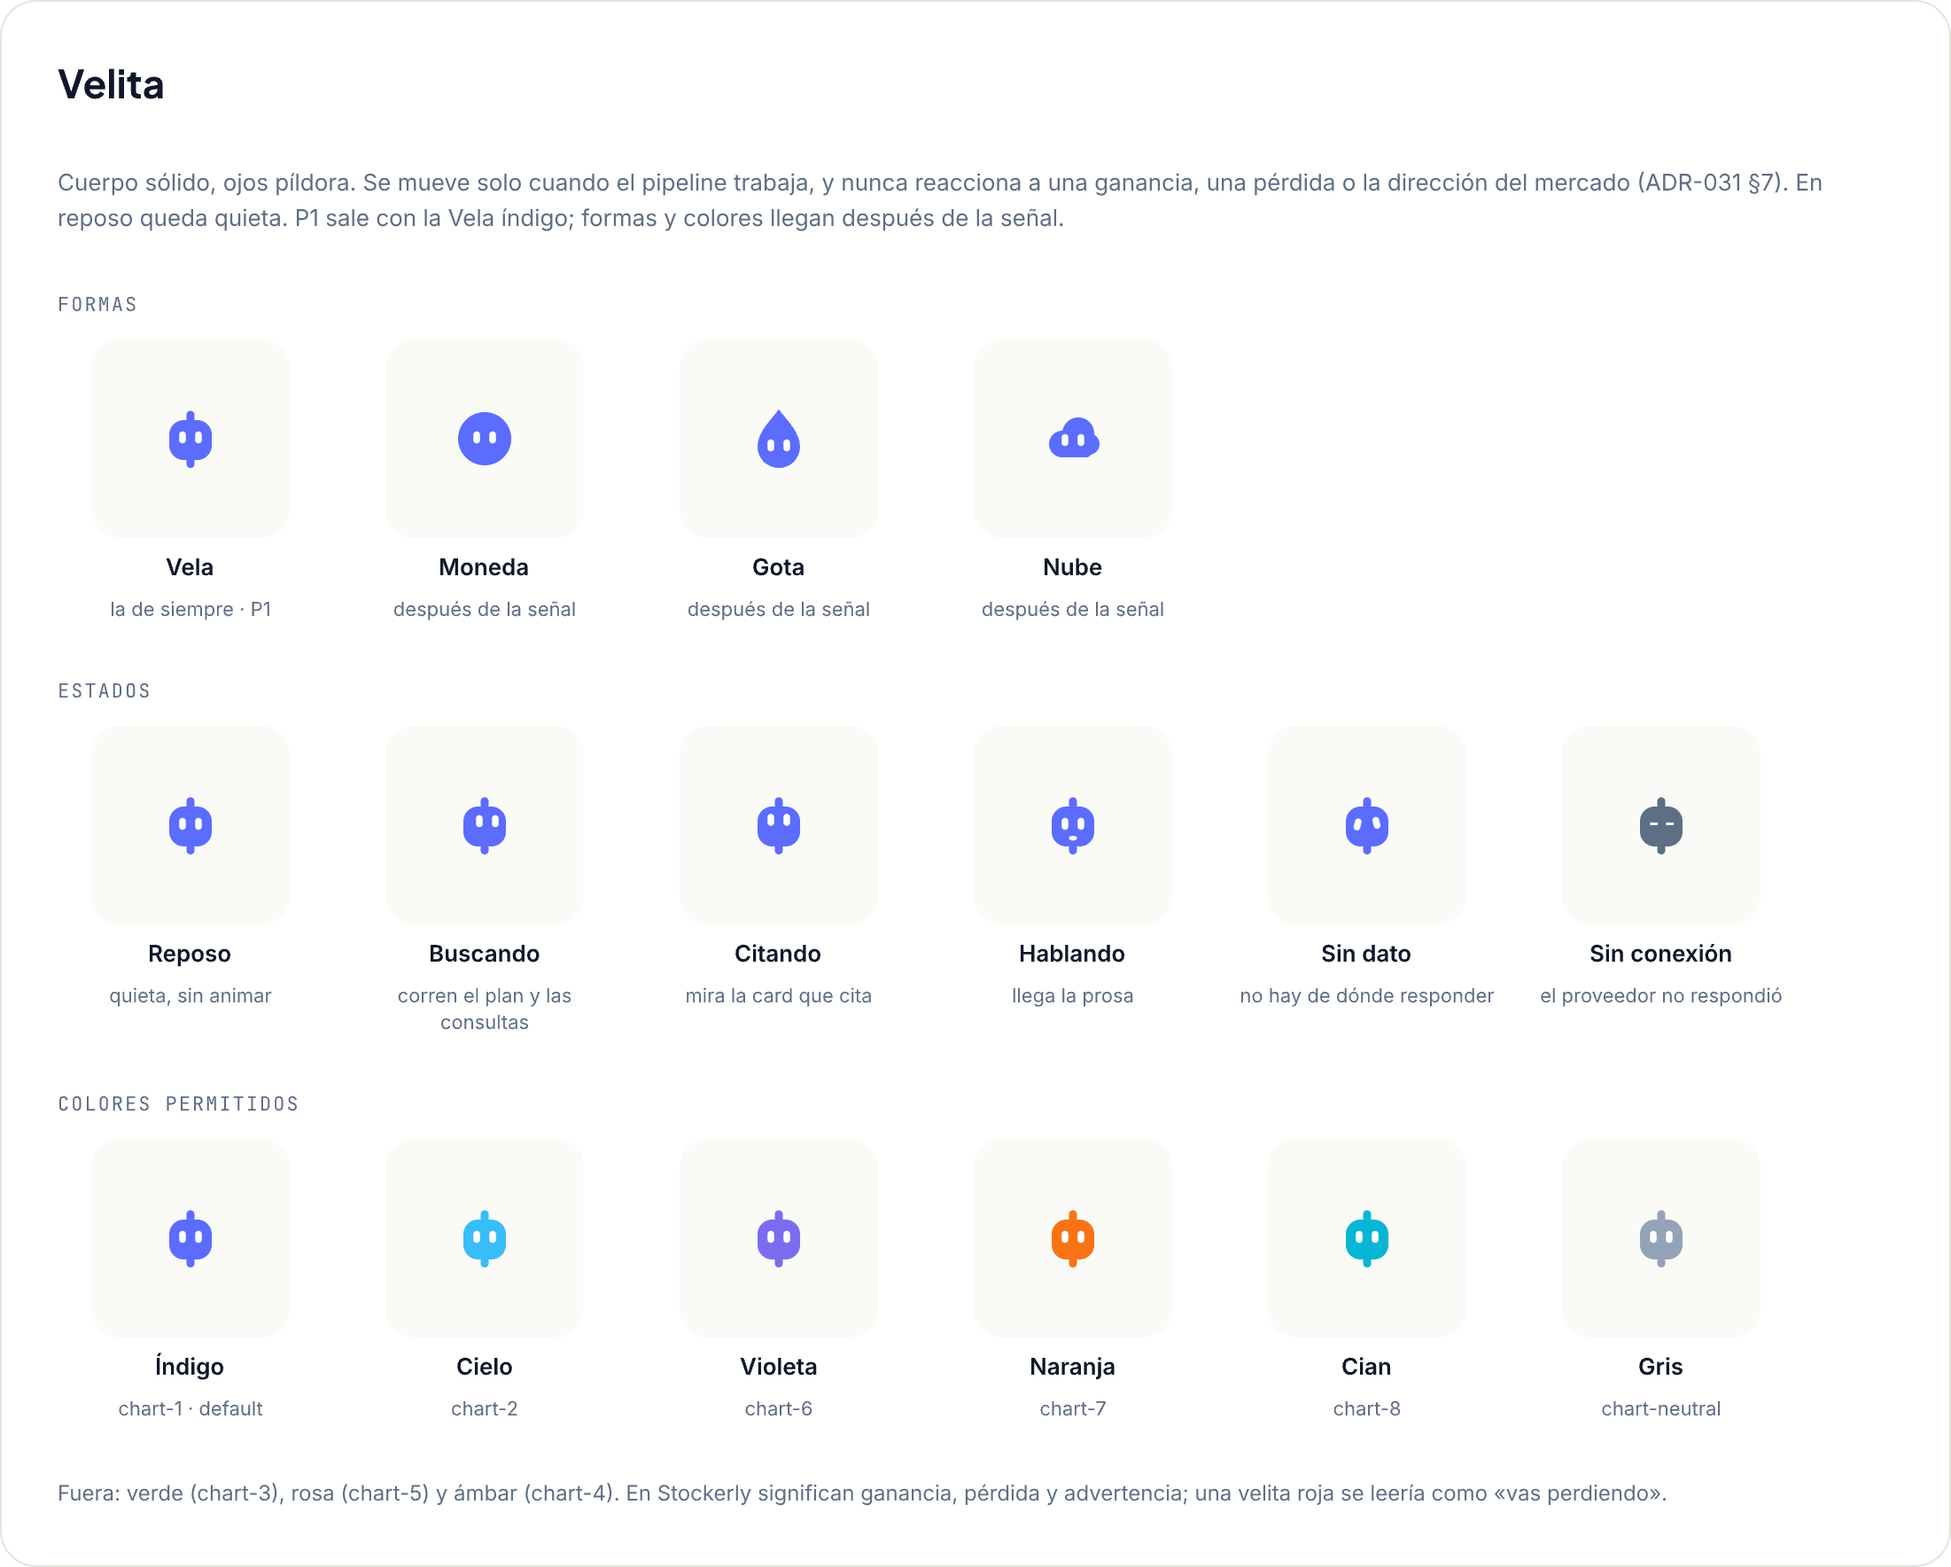
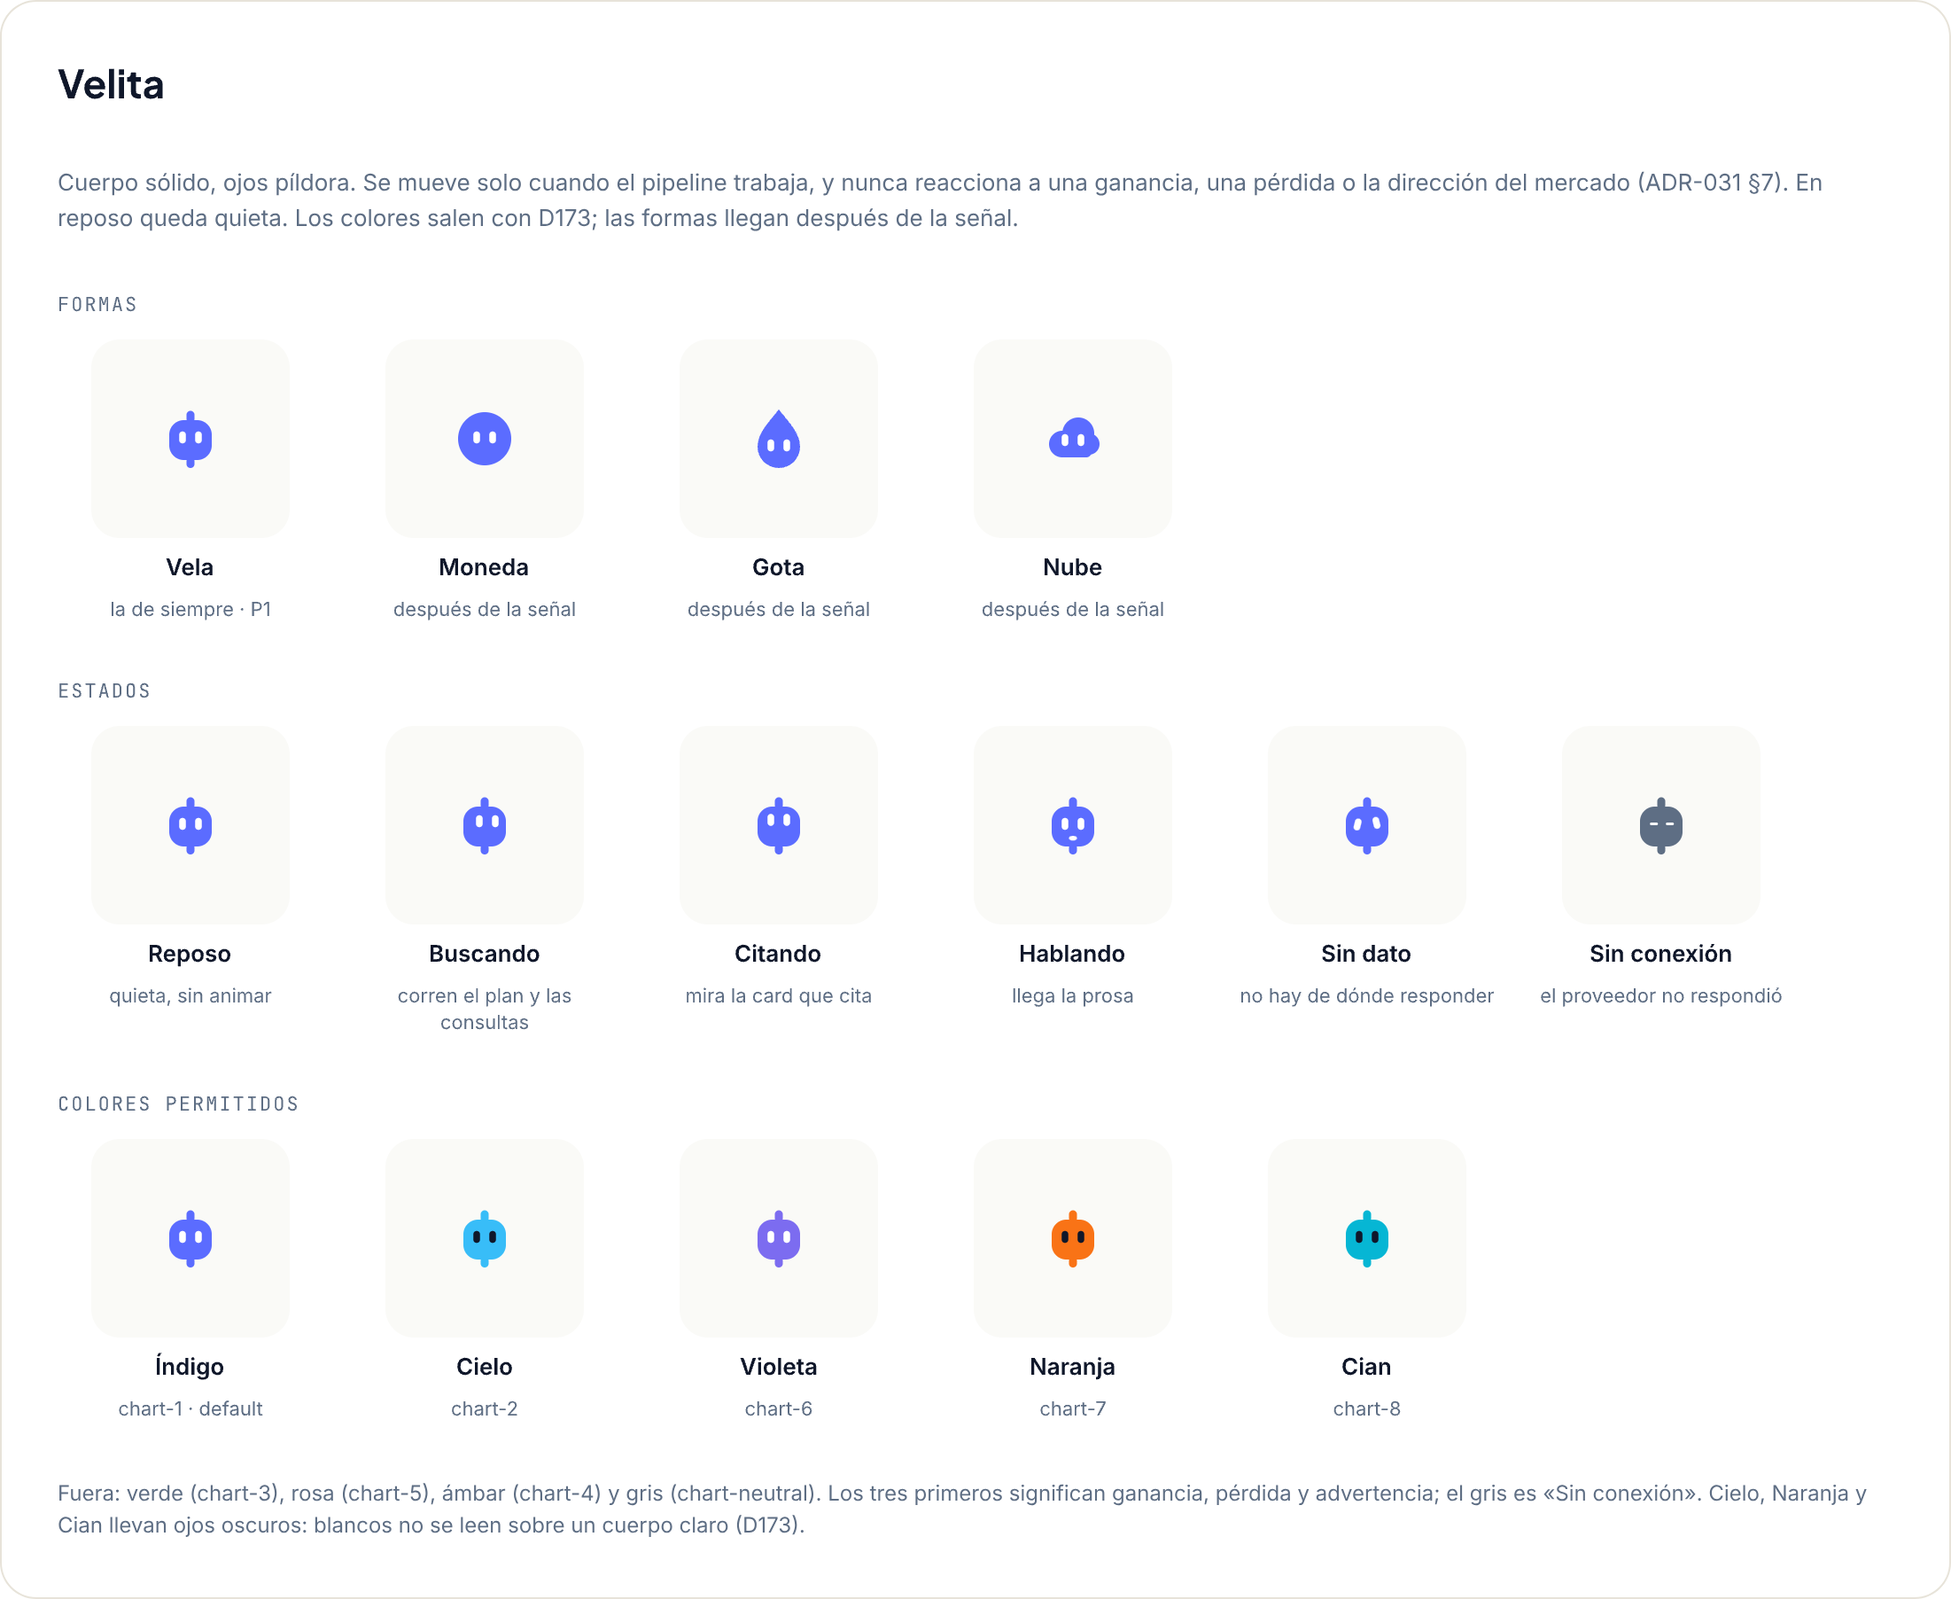
feat(assistant): give Velita her states, a search glance and five colours

diff --git a/app/assets/tailwind/application.css b/app/assets/tailwind/application.css
@@ -218,6 +218,21 @@ dialog.assistant-sheet::backdrop {
   }
 }
 
+/* D173: Velita's eyes scan while the plan and its reads run; still, she
+   holds the same glance. Every other state is a pose, not a motion. */
+.velita-searching .velita-eyes { transform: translate(1.5px, -1.5px); }
+
+@media (prefers-reduced-motion: no-preference) {
+  .velita-searching .velita-eyes {
+    animation: velita-scan 1.2s cubic-bezier(0.77, 0, 0.175, 1) infinite alternate;
+  }
+}
+
+@keyframes velita-scan {
+  from { transform: translate(1.5px, -1.5px); }
+  to   { transform: translate(-1.5px, -1.5px); }
+}
+
 @media (prefers-reduced-motion: reduce) {
   html { scroll-behavior: auto; }
   *, *::before, *::after {

diff --git a/app/helpers/velita_helper.rb b/app/helpers/velita_helper.rb
@@ -4,8 +4,41 @@ module VelitaHelper
   def velita_visible?
     return @velita_visible if defined?(@velita_visible)
 
-    connection = Administration::Queries::AssistantConnection.call
+    connection = velita_connection
     @velita_visible = connection.present? && connection[:status] == :connected && connection[:show_velita]
+  end
+
+  def velita_connection
+    return @velita_connection if defined?(@velita_connection)
+
+    @velita_connection = Administration::Queries::AssistantConnection.call
+  end
+
+  # D173: a light body takes dark eyes, or the expression does not read on it.
+  DARK_EYES = "fill-fg-default dark:fill-fg-inverse".freeze
+  VELITA_PAINT = {
+    "indigo" => [ "text-chart-1", "fill-fg-inverse" ],
+    "cielo" => [ "text-chart-2", DARK_EYES ],
+    "violeta" => [ "text-chart-6", "fill-fg-inverse" ],
+    "naranja" => [ "text-chart-7", DARK_EYES ],
+    "cian" => [ "text-chart-8", DARK_EYES ]
+  }.freeze
+
+  # Without a connection she is "Sin conexión", whatever colour was picked.
+  def velita_paint(state, colour = nil)
+    return [ "text-fg-subtle", "fill-fg-inverse" ] if state == :offline
+
+    VELITA_PAINT.fetch(colour || velita_connection&.dig(:velita_colour), VELITA_PAINT["indigo"])
+  end
+
+  # The figure beside an answer says what the pipeline is doing (ADR-031 §7).
+  def velita_state(message)
+    if message.pending? then :searching
+    elsif message.streaming? then message.answer.present? ? :speaking : :citing
+    elsif message.discarded? then :no_data
+    elsif message.failed? then :offline
+    else :idle
+    end
   end
 
   # A page that answers its own question gets its own key; the rest go by their tab.

diff --git a/spec/requests/assistant_velita_spec.rb b/spec/requests/assistant_velita_spec.rb
@@ -107,6 +107,44 @@ RSpec.describe "Velita", type: :request do
     end
   end
 
+  # D173: five colours that carry no verdict.
+  describe "her colour" do
+    it "starts índigo, and the one picked is pressed" do
+      connect
+      get settings_assistant_path
+
+      expect(response.body).to include(%(aria-pressed="true" aria-label="#{I18n.t("settings.assistants.show.colores.indigo")}"))
+      expect(response.body).to include(%(aria-pressed="false" aria-label="#{I18n.t("settings.assistants.show.colores.cielo")}"))
+    end
+
+    it "paints her everywhere she appears" do
+      connect
+
+      patch appearance_settings_assistant_path, params: { velita_colour: "cielo" }
+      expect(response).to redirect_to(settings_assistant_path)
+      get dashboard_path
+
+      expect(response.body).to include("text-chart-2")
+      expect(response.body).not_to include("text-chart-1")
+    end
+
+    it "refuses a colour outside the five" do
+      connect
+
+      patch appearance_settings_assistant_path, params: { velita_colour: "verde" }
+
+      expect(Integration.find_by(provider_name: "Asistente").setting("velita_colour")).to be_nil
+    end
+
+    it "has no appearance to change before a connection is configured" do
+      get settings_assistant_path
+      expect(response.body).not_to include(I18n.t("settings.assistants.show.apariencia"))
+
+      patch appearance_settings_assistant_path, params: { velita_colour: "cielo" }
+      expect(response).to have_http_status(:not_found)
+    end
+  end
+
   # ADR-031's 2026-10-22 amendment.
   describe "the holdings switch" do
     it "starts off, naming the host the holdings would go to" do

diff --git a/spec/helpers/velita_helper_spec.rb b/spec/helpers/velita_helper_spec.rb
@@ -61,4 +61,27 @@ RSpec.describe VelitaHelper, type: :helper do
       expect(helper.assistant_asked_at(Time.zone.local(2026, 10, 20, 9, 5))).to eq("20 oct · 09:05")
     end
   end
+
+  # ADR-031 §7, D173: the figure beside an answer says what the pipeline is doing, nothing else.
+  describe "Velita's state and colour" do
+    def message(**attributes) = AssistantMessage.new(question: "¿Qué es el RSI?", **attributes)
+
+    it "follows the message through the pipeline" do
+      expect(helper.velita_state(message(status: :pending))).to eq(:searching)
+      expect(helper.velita_state(message(status: :streaming))).to eq(:citing)
+      expect(helper.velita_state(message(status: :streaming, answer: "Mide"))).to eq(:speaking)
+      expect(helper.velita_state(message(status: :answered, answer: "Mide"))).to eq(:idle)
+      expect(helper.velita_state(message(status: :discarded))).to eq(:no_data)
+      expect(helper.velita_state(message(status: :failed))).to eq(:offline)
+    end
+
+    it "is grey when she cannot answer, whatever colour was picked" do
+      expect(helper.velita_paint(:offline, "naranja")).to eq([ "text-fg-subtle", "fill-fg-inverse" ])
+    end
+
+    it "gives a light body dark eyes, in both themes" do
+      expect(helper.velita_paint(:idle, "cielo").last).to eq("fill-fg-default dark:fill-fg-inverse")
+      expect(helper.velita_paint(:idle, "indigo").last).to eq("fill-fg-inverse")
+    end
+  end
 end

diff --git a/app/contexts/administration/queries/assistant_connection.rb b/app/contexts/administration/queries/assistant_connection.rb
@@ -8,6 +8,8 @@ module Administration
       PROVIDER_TYPE = "Assistant".freeze
       DEFAULT_BASE_URL = "https://api.anthropic.com".freeze
       DEFAULT_MODEL = "claude-haiku-5-5".freeze
+      # D173: no green, amber or rose (gain, warning, loss), and no grey, which is "Sin conexión".
+      VELITA_COLOURS = %w[indigo cielo violeta naranja cian].freeze
 
       def self.call
         row = Integration.find_by(provider_name: PROVIDER_NAME)
@@ -17,7 +19,8 @@ module Administration
         { base_url: row.setting("base_url"), model:, planner_model: row.setting("planner_model") || model,
           api_key: row.active_api_key, masked_api_key: row.masked_api_key, status: row.connection_status.to_sym,
           failure_tag: row.last_failure_tag, checked_at: row.last_sync_at,
-          show_velita: row.setting("show_velita") == true, read_holdings: row.setting("read_holdings") == true }
+          show_velita: row.setting("show_velita") == true, read_holdings: row.setting("read_holdings") == true,
+          velita_colour: row.setting("velita_colour").presence_in(VELITA_COLOURS) || VELITA_COLOURS.first }
       end
     end
   end

diff --git a/app/contexts/administration/use_cases/integrations/paint_velita.rb b/app/contexts/administration/use_cases/integrations/paint_velita.rb
@@ -1,0 +1,15 @@
+module Administration
+  module UseCases
+    module Integrations
+      # Velita's colour (D173), one of the colours that carry no verdict.
+      class PaintVelita < SimpleUseCase
+        def call(colour:)
+          return false unless Queries::AssistantConnection::VELITA_COLOURS.include?(colour)
+
+          row = Integration.find_by!(provider_name: Queries::AssistantConnection::PROVIDER_NAME)
+          row.update!(settings: row.settings.to_h.merge("velita_colour" => colour))
+        end
+      end
+    end
+  end
+end

diff --git a/spec/requests/assistant_questions_spec.rb b/spec/requests/assistant_questions_spec.rb
@@ -36,7 +36,7 @@ RSpec.describe "Assistant questions", type: :request do
     end.to have_enqueued_job(AssistantComposeJob)
 
     expect(response.body).to include("¿Qué significa el RSI?")
-    expect(response.body).to include(I18n.t("assistant.questions.answer.buscando"))
+    expect(response.body).to include(I18n.t("assistant.questions.answer.buscando"), "velita-searching")
     expect(AssistantMessage.last.cards).to eq([])
     expect(AssistantConversation.find_by(token: "abc").messages.count).to eq(1)
   end

diff --git a/app/controllers/settings/assistants_controller.rb b/app/controllers/settings/assistants_controller.rb
@@ -41,6 +41,13 @@ module Settings
       head :not_found
     end
 
+    def appearance
+      Administration::UseCases::Integrations::PaintVelita.call(colour: params[:velita_colour].to_s)
+      redirect_to settings_assistant_path
+    rescue ActiveRecord::RecordNotFound
+      head :not_found
+    end
+
     private
 
     def configure

diff --git a/config/routes.rb b/config/routes.rb
@@ -139,6 +139,7 @@ Rails.application.routes.draw do
       patch :verify
       patch :velita
       patch :holdings
+      patch :appearance
     end
   end
   # ADR-031: the assistant is invoked, never pushed; D11 makes the route first

diff --git a/design/DECISIONS.md b/design/DECISIONS.md
@@ -222,6 +222,7 @@ reverses opens with `⤷` and the number that replaced it.
 | **D170** | What returns from D168's trim once a planner exists (#880 slice D2, 2026-10-22) | Keep one *Modelo* field · **The artboard's two fields, *Para planear* and *Para redactar*** | ✅ **Adrian's call ("sigue con d2"), 2026-10-22.** A model now chooses which data a question reads, so the planner field D168 deferred ships as drawn, with the artboard's *Un mismo modelo puede hacer las dos cosas.* — an empty *Para planear* means the writing model plans too. The drawer gains a **Buscando…** state between the question and its cards, the artboard's *Buscando* state for Velita (D167) written as text; her motion is still not built. Still out: the format toggle and *Funciona con Anthropic, OpenAI…* (no OpenAI-compatible adapter yet, D168). |
 | **D171** | How a turn of the assistant reads, once a planner chooses its data (ui-review of production, 2026-10-22: *"no parece una conversación… las cards parecen contexto pero distraen"*) | **A · Answer first, the reads folded under it** · B · Answer first, every card open but one line each | 🟡 **Proposed; Adrian picked A in chat, 2026-10-22.** The question becomes the reader's turn (with the time it was asked) and Velita's answer comes straight under it; the data she read folds into one line of the artboard's planner chips (*✓ Contexto de mercado · ✓ Fear & Greed · cripto*) carrying each read's title under *Lo que leí*; it expands into the cards, which keep their source and date, and each `[n]` in the prose opens its card. **Deviation from this proposal:** the chips do not carry the oldest date read, because a card holds its date as text, not as data; the cost is that a stale read is one tap away instead of on the line. **Brings back what D169 deferred:** its reason, *"v0 has no planner to report on"*, stopped holding with #882. Sources print their readable label, never a series id. **Rejected B:** it tested keeping provenance on screen; it lost because in every production answer the prose already repeats each card's figure, so the open cards add only source and date and push the answer below the fold. **What would bring it back:** a composer that summarises instead of citing, so the cards carry figures the prose does not. |
 | **D172** | Whether the drawer is a conversation: a thread, its history, and follow-ups (same session) | **Thread with follow-ups: the last three questions travel, not the answers** · History only, each question answered alone · Neither yet | 🟡 **Proposed; Adrian chose the thread with follow-ups, 2026-10-22.** The drawer reads as one thread per conversation, and earlier conversations are listed from the records the assistant already keeps (ADR-031 §4: its own conversation record) — no browser storage. The planner and the composer receive the conversation's last three **questions**, never earlier answers or cards, so *¿y el IPC?* resolves while the numbers gate still admits only this turn's reads (the plan's Q3: no transcript). **Rejected: history only** — it tested a smaller step; it lost because a thread that looks like a chat fails on its first follow-up. **Rejected: neither** — it left the drawer forgetting every visit, the complaint itself. **Not in this entry:** a memory the assistant writes about the owner (plan Q4, propose→confirm), and any retention limit. |
+| **D173** | How Velita moves and which colours she comes in (asked 2026-10-23: *"sigamos con la animación y colores de velita"*) | **Colours:** A · the six drawn · **B · five, no Gris, dark eyes on light bodies** · C · only those over 3:1 (Índigo, Violeta) | ✅ **Adrian picked B, 2026-10-23.** **Motion** (ui-motion gate, from source and a render, not observed in a browser): only *Buscando* moves — the eyes glance between the drawn pose and its mirror, `translate(±1.5px, −1.5px)`, 1.2s `cubic-bezier(0.77, 0, 0.175, 1)` alternate, opt-in under `prefers-reduced-motion: no-preference`; reduced, she holds the drawn glance. It is a progress indicator for an occasional wait, and *Buscando…* is still written. Every other state is the artboard's pose, not a motion: *Citando* (eyes up, cards shown, prose pending), *Hablando* (mouth, while prose streams), *Sin dato* (eyes tilted ±14°, discarded), *Sin conexión* (grey, flat eyes, failed); answered returns to *Reposo*. The launcher gets press feedback, `scale(0.97)` over 150ms ease-out. **Rejected motion:** an idle blink or bob (seen on every screen, every day — D166), a hover lift (tens a day), a mouth that moves while prose streams (it moves beside text being read), a bounce on an answer (frequent, and a pleased face is advice — ADR-031 §7), slides between poses (Turbo replaces the partial; the text already changes). **Colours:** measured, Cielo 2.14:1, Cian 2.43:1, Gris 2.56:1 and Naranja 2.80:1 against white, so in light mode their white eyes do not read; they take `fg-default` eyes, which is dark in both themes. Gris is out because grey is *Sin conexión*: a grey Velita would say "failed" when nothing did. The light bodies stay under 3:1 against the surface; Velita is `aria-hidden` and every state is also text, so it is decoration, not a control's only boundary — the launcher keeps its border. **What would bring C back:** Velita carrying meaning no text repeats. **Not done:** shapes (Moneda, Gota, Nube) wait as D167 phased them; the artboard's *Gris* tile and white eyes on light bodies are to be amended to match (D78). |
 
 ## Open product questions — answered 2026-09-22
 

diff --git a/design/exports/README.md b/design/exports/README.md
@@ -233,7 +233,7 @@ exports, so re-shoot these when those change.
 | `assistant-hoy-conversaciones-anteriores.png` | `[Asistente] / Hoy / Conversaciones anteriores` — the history, each thread by its first and last question (D172) |
 | `assistant-hoy-drawer-descartada.png` | `[Asistente] / Hoy / Drawer · Descartada` — an answer the numbers gate discarded, with «Preguntar de nuevo» |
 | `assistant-panorama-desktop-panel-abierto.png` | `[Asistente] / Panorama · Desktop / Panel abierto` — the non-modal side panel |
-| `assistant-velita-formas-estados-colores.png` | `[Asistente] / Velita / Formas, estados y colores` — the character sheet (D167) |
+| `assistant-velita-formas-estados-colores.png` | `[Asistente] / Velita / Formas, estados y colores` — the character sheet (D167; colours per D173) |
 | `assistant-ajustes-conectada.png` | `[Asistente] / Ajustes · Asistente / Conectada` |
 | `assistant-ajustes-sin-configurar.png` | `[Asistente] / Ajustes · Asistente / Sin configurar` — off until a connection answers |
 | `assistant-ajustes-error-de-conexion.png` | `[Asistente] / Ajustes · Asistente / Error de conexión` |
